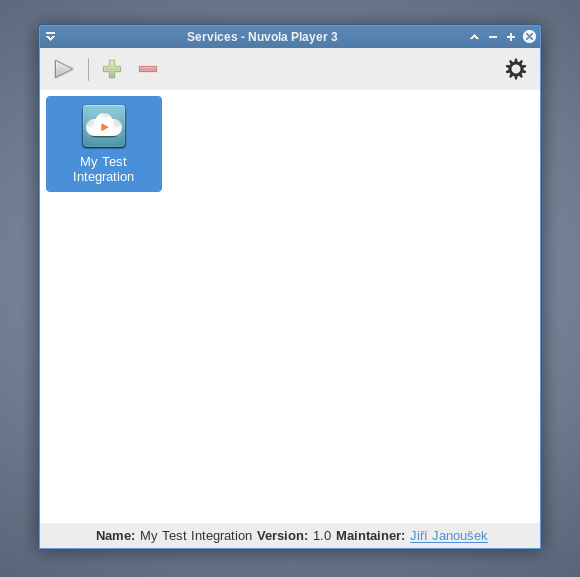
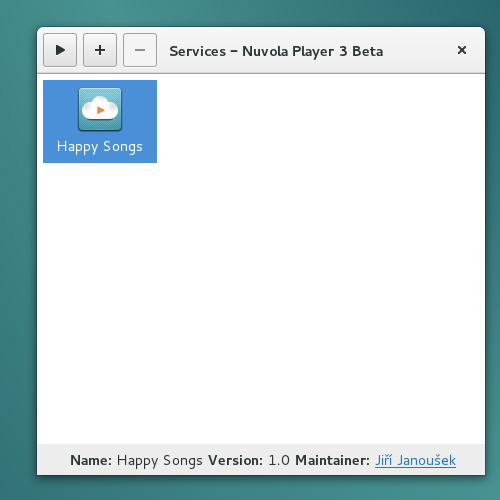
Build 37fe120865ed482d8b55540cbc47c5ff858b4a46
Build revision 37fe120865ed482d8b55540cbc47c5ff858b4a46
of tiliado/nuvolaplayer master

Changed region(s): [[0.0, 0.0, 1.0, 1.0]]

diff --git a/apps/guide.html b/apps/guide.html
@@ -111,8 +111,8 @@
   <div class="col-sm-12 col-md-10 col-lg-9">
     
 <p>This guide describes creation of <strong>a new service integration for Nuvola Player 3 from
-scratch</strong>. The goal is to write an integration script for <em>Test service</em> shipped with Nuvola Player
-and to prepare you to create your own service integration. Unlike the
+scratch</strong>. The goal is to write an integration script for <em>a fake Happy Songs service</em> shipped
+with Nuvola Player and to prepare you to create your own service integration. Unlike the
 <a href="../apps/guide.html">Service Integrations Tutorial</a>, this guide provides also insight to the Nuvola
 Player Core and explain some design decisions.</p>
 <h2 id="prepare-development-environment">Prepare development environment</h2>
@@ -127,22 +127,15 @@ Player Core and explain some design decisions.</p>
 <li>
 <p>Create a copy of the test service shipped with Nuvola Player 3.</p>
 <div class="codehilite"><pre><span class="nb">cd</span> ~/projects/nuvola-player
-cp -r /usr/share/nuvolaplayer3/web_apps/test ./test-integration
+cp -r /usr/share/nuvolaplayer3/web_apps/template ./happy-songs
 <span class="c"># or</span>
-cp -r /usr/local/share/nuvolaplayer3/web_apps/test ./test-integration
-</pre></div>
-</li>
-<li>
-<p>Rename old integration files (or remove it).</p>
-<div class="codehilite"><pre><span class="nb">cd</span> ~/projects/nuvola-player/test-integration
-mv metadata.json metadata.old.json
-mv integrate.js integrate.old.js
+cp -r /usr/local/share/nuvolaplayer3/web_apps/template ./happy-songs
 </pre></div>
 </li>
 <li>
 <p>Create new integration files and open them in your preferred plan-text editor (Gedit,
     for example).</p>
-<div class="codehilite"><pre><span class="nb">cd</span> ~/projects/nuvola-player/test-integration
+<div class="codehilite"><pre><span class="nb">cd</span> ~/projects/nuvola-player/happy-songs
 touch metadata.json integrate.js
 gedit metadata.json integrate.js &gt;/dev/null 2&gt;<span class="p">&amp;</span><span class="m">1</span> <span class="p">&amp;</span>
 </pre></div>
@@ -155,7 +148,7 @@ and available in the Nuvola Player repository, you will increase maintenance bur
 project, because somebody (<a href="http://fenryxo.cz"><em>me</em></a>) will have to create Git repository from tar.gz archive of your
 service integration anyway.</p>
 <p>See <a href="https://try.github.io/levels/1/challenges/1">Git tutorial</a>.</p>
-<div class="codehilite"><pre><span class="nb">cd</span> ~/projects/nuvola-player/test-integration
+<div class="codehilite"><pre><span class="nb">cd</span> ~/projects/nuvola-player/happy-songs
 git init .
 git add metadata.json integrate.js
 git commit -m <span class="s2">"Initial commit"</span>
@@ -168,11 +161,21 @@ debugging output to console and arguments <code>-A ~/projects/nuvola-player</cod
 load service integrations only from directory <code>~/projects/nuvola-player</code>.</p>
 <div class="codehilite"><pre>nuvolaplayer3 -D -A ~/projects/nuvola-player
 </pre></div>
+<div class="panel panel-danger"><p class="panel-heading">Make sure all Nuvola Player instances have been closed</p><div class="panel-body">
+<p>If you see following warning in terminal, there is a running instance of Nuvola Player
+that must be closed. Otherwise, the <code>-A</code> parameter is ignored.</p>
+<div class="codehilite"><pre>[Master:INFO     Nuvola] master.vala:135: Nuvola Player 3 Beta instance is already running
+and will be activated.
+[Master:WARNING  Nuvola] master.vala:137: Some command line parameters (-D, -v, -A, -L) are
+ignored because they apply only to a new instance. You might want to close all Nuvola Player
+instances and run it again with your parameters.
+</pre></div>
+</div></div>
 <p>You will see an empty list of services and an error message in terminal that tells you Nuvola Player
 failed to load your service integration because of invalid metadata file. So let's create it!</p>
 <div class="codehilite"><pre>[Master:WARNING  Nuvola] webappregistry.vala:169: Unable to load app from
-/home/fenryxo/projects/nuvola-player/test-integration: Invalid metadata file
-'/home/fenryxo/projects/nuvola-player/test-integration/metadata.json'.
+/home/fenryxo/projects/nuvola-player/happy-songs: Invalid metadata file
+'/home/fenryxo/projects/nuvola-player/happy-songs/metadata.json'.
 Expecting a JSON object, but the root node is of type '(null)'
 </pre></div>
 <p><img alt="Empty list of service integrations" src="../images/guide/empty_app_list.png"/></p>
@@ -180,8 +183,8 @@ Expecting a JSON object, but the root node is of type '(null)'
 <a href="http://en.wikipedia.org/wiki/JSON">JSON format</a> and it's called <code>metadata.json</code>.
 Let's look at the example:</p>
 <div class="codehilite"><pre><span class="p">{</span>
-    <span class="nt">"id"</span><span class="p">:</span> <span class="s2">"test_integration"</span><span class="p">,</span>
-    <span class="nt">"name"</span><span class="p">:</span> <span class="s2">"My Test Integration"</span><span class="p">,</span>
+    <span class="nt">"id"</span><span class="p">:</span> <span class="s2">"happy_songs"</span><span class="p">,</span>
+    <span class="nt">"name"</span><span class="p">:</span> <span class="s2">"Happy Songs"</span><span class="p">,</span>
     <span class="nt">"maintainer_name"</span><span class="p">:</span> <span class="s2">"Jiří Janoušek"</span><span class="p">,</span>
     <span class="nt">"maintainer_link"</span><span class="p">:</span> <span class="s2">"https://github.com/fenryxo"</span><span class="p">,</span>
     <span class="nt">"version_major"</span><span class="p">:</span> <span class="mi">1</span><span class="p">,</span>
@@ -236,15 +239,15 @@ Nuvola Player services should be in <code>"AudioVideo;Audio;"</code>.</p>
 </dd>
 <dt><code>home_url</code></dt>
 <dd>
-<p>Home page of your service. The test integration service uses <code>nuvola://home.html</code> that refers to
-file  <code>home.html</code> in the service's directory. You will use real homepage later in your own
+<p>Home page of your service. The template contains fake service home page <code>home.html</code>, which
+has a special address <code>nuvola://home.html</code>. You will use a real homepage later in your own
 service integration (e.g. <code>https://play.google.com/music/</code> for Google Play Music).</p>
 <p>This field is not required if you use custom function to handle home page request.
 See <a href="../apps/variable-home-page-url.html">Web apps with a variable home page URL</a>.</p>
 </dd>
 </dl>
 <div class="panel panel-info"><p class="panel-heading">If you use Git, commit changes</p><div class="panel-body">
-<div class="codehilite"><pre><span class="nb">cd</span> ~/projects/nuvola-player/test-integration
+<div class="codehilite"><pre><span class="nb">cd</span> ~/projects/nuvola-player/happy-songs
 git add metadata.json
 git commit -m <span class="s2">"Add initial metadata for service"</span>
 </pre></div>
@@ -284,7 +287,7 @@ of them in Nuvola Player:</p>
 </ul>
 <h2 id="app-runner-process">App Runner Process</h2>
 <p>If you launch your service, either from the list of services or with command
-<code>nuvolaplayer3 -D -A ~/projects/nuvola-player -a test_integration</code>, you will see an error
+<code>nuvolaplayer3 -D -A ~/projects/nuvola-player -a happy_songs</code>, you will see an error
 dialog saying "Invalid home page URL - The web app integration script has provided an empty home
 page URL." and the app will quit. That's because Nuvola Player makes no assumption about where the
 homepage URL is stored and expect service integration script provides this information explicitly
@@ -326,7 +329,7 @@ nothing, nobody has told Nuvola Player "Hey, look at home_url field of metadata.
 33
 34
 35</pre></div></td><td class="code"><div class="codehilite"><pre><span class="cm">/*</span>
-<span class="cm"> * Copyright 2014 Your name &lt;your e-mail&gt;</span>
+<span class="cm"> * Copyright 2015 Your name &lt;your e-mail&gt;</span>
 <span class="cm"> *</span>
 <span class="cm"> * Redistribution and use in source and binary forms, with or without</span>
 <span class="cm"> * modification, are permitted provided that the following conditions are met: </span>
@@ -393,12 +396,12 @@ instead of <a href="https://developer.mozilla.org/en-US/docs/Web/API/console.log
 </div></div>
 <h3 id="developer-tools">Developer Tools</h3>
 <p>Launch your service integration, either from the list of services or with command
-<code>nuvolaplayer3 -D -A ~/projects/nuvola-player -a test_integration</code>, and show ow important developer
+<code>nuvolaplayer3 -D -A ~/projects/nuvola-player -a happy_songs</code>, and show ow important developer
 tools:</p>
 <ul>
 <li>
 <p><strong>Developer's Sidebar</strong> shows information provided by the integration script to the Nuvola Player
-    core. To enable it, click Gear menu or GNOME Shell App Menu → Show sidebar → select "Developer"
+    core. To enable it, click Gear menu → Show sidebar → select "Developer"
     in the right sidebar.</p>
 </li>
 <li>
@@ -406,7 +409,6 @@ tools:</p>
     the web page anywhere and select "Inspect element".</p>
 </li>
 </ul>
-<p><img alt="Show sidebar - Unity" src="../images/guide/show_sidebar_unity.png"/></p>
 <p><img alt="Show sidebar - GNOME Shell" src="../images/guide/show_sidebar_gnome_shell.png"/></p>
 <p><img alt="Inspect element" src="../images/guide/inspect_element.png"/></p>
 <p><img alt="WebKit Web Inspector" src="../images/guide/webkit_web_inspector.png"/></p>
@@ -586,6 +588,9 @@ state and track details:</p>
 <span class="c1">// Extract data from the web page</span>
 <span class="nx">WebApp</span><span class="p">.</span><span class="nx">update</span> <span class="o">=</span> <span class="kd">function</span><span class="p">()</span>
 <span class="p">{</span>
+
+    <span class="c1">// Schedule the next update</span>
+    <span class="nx">setTimeout</span><span class="p">(</span><span class="k">this</span><span class="p">.</span><span class="nx">update</span><span class="p">.</span><span class="nx">bind</span><span class="p">(</span><span class="k">this</span><span class="p">),</span> <span class="mi">500</span><span class="p">);</span>
 <span class="p">}</span>
 
 <span class="p">...</span>
@@ -661,7 +666,7 @@ might be. Playback states are defined in an enumeration
 </pre></div>
 <p><img alt="Track details" src="../images/guide/track_details.png"/></p>
 <div class="panel panel-info"><p class="panel-heading">If you use Git, commit changes</p><div class="panel-body">
-<div class="codehilite"><pre><span class="nb">cd</span> ~/projects/nuvola-player/test-integration
+<div class="codehilite"><pre><span class="nb">cd</span> ~/projects/nuvola-player/happy-songs
 git add integrate.js
 git commit -m <span class="s2">"Extract metadata and playback state"</span>
 </pre></div>
@@ -790,7 +795,7 @@ $ nuvolaplayer3ctl action next-song
 </pre></div>
 </div></div>
 <div class="panel panel-info"><p class="panel-heading">If you use Git, commit changes</p><div class="panel-body">
-<div class="codehilite"><pre><span class="nb">cd</span> ~/projects/nuvola-player/test-integration
+<div class="codehilite"><pre><span class="nb">cd</span> ~/projects/nuvola-player/happy-songs
 git add integrate.js
 git commit -m <span class="s2">"Add player actions handling"</span>
 </pre></div>

diff --git a/apps/tutorial.html b/apps/tutorial.html
@@ -101,8 +101,9 @@
   <div class="col-sm-12 col-md-10 col-lg-9">
     
 <p>This tutorial briefly describes creation of <strong>a new service integration for Nuvola Player 3 from
-scratch</strong>. The goal is to write an integration script for <em>Test service</em> shipped with Nuvola Player
-and to prepare you to create your own service integration. I'm looking forward to a code review ;-)
+scratch</strong>. The goal is to write an integration script for <em>fake Happy Songs  service</em> shipped with
+Nuvola Player and to prepare you to create your own service integration.
+I'm looking forward to a code review ;-)
 There is also more detailed <a href="../apps/guide.html">Service Integrations Guide</a> that provides
 insight to the NuvolaKit core. </p>
 <h2 id="prepare-development-environment">Prepare development environment</h2>
@@ -115,24 +116,17 @@ insight to the NuvolaKit core. </p>
 </pre></div>
 </li>
 <li>
-<p>Create a copy of the test service shipped with Nuvola Player 3.</p>
-<div class="codehilite"><pre><span class="nb">cd</span> ~/projects/nuvola-player
-cp -r /usr/share/nuvolaplayer3/web_apps/test ./test-integration
-<span class="c"># or</span>
-cp -r /usr/local/share/nuvolaplayer3/web_apps/test ./test-integration
-</pre></div>
-</li>
-<li>
-<p>Rename old integration files (or remove it).</p>
-<div class="codehilite"><pre><span class="nb">cd</span> ~/projects/nuvola-player/test-integration
-mv metadata.json metadata.old.json
-mv integrate.js integrate.old.js
+<p>Create a copy of the template shipped with Nuvola Player 3.</p>
+<div class="codehilite"><pre>cd ~/projects/nuvola-player
+cp -r /usr/share/nuvolaplayer3/web_apps/template ./happy-songs
+# or
+cp -r /usr/local/share/nuvolaplayer3/web_apps/template ./happy-songs
 </pre></div>
 </li>
 <li>
 <p>Create new integration files and open them in your preferred plan-text editor (Gedit,
     for example).</p>
-<div class="codehilite"><pre><span class="nb">cd</span> ~/projects/nuvola-player/test-integration
+<div class="codehilite"><pre><span class="nb">cd</span> ~/projects/nuvola-player/happy-songs
 touch metadata.json integrate.js
 gedit metadata.json integrate.js &gt;/dev/null 2&gt;<span class="p">&amp;</span><span class="m">1</span> <span class="p">&amp;</span>
 </pre></div>
@@ -147,7 +141,7 @@ service integration anyway.</p>
 <p>If you are not familiar with the <a href="http://git-scm.com/">Git version control system</a>,
 you can check <a href="https://try.github.io/levels/1/challenges/1">Git tutorial</a>
 and <a href="http://git-scm.com/book">Pro Git Book</a>.</p>
-<div class="codehilite"><pre><span class="nb">cd</span> ~/projects/nuvola-player/test-integration
+<div class="codehilite"><pre><span class="nb">cd</span> ~/projects/nuvola-player/happy-songs
 git init .
 git add metadata.json integrate.js
 git commit -m <span class="s2">"Initial commit"</span>
@@ -159,8 +153,8 @@ git commit -m <span class="s2">"Initial commit"</span>
 <a href="http://en.wikipedia.org/wiki/JSON">JSON format</a> and it's called <code>metadata.json</code>.
 Let's look at the example:</p>
 <div class="codehilite"><pre><span class="p">{</span>
-    <span class="nt">"id"</span><span class="p">:</span> <span class="s2">"test_integration"</span><span class="p">,</span>
-    <span class="nt">"name"</span><span class="p">:</span> <span class="s2">"My Test Integration"</span><span class="p">,</span>
+    <span class="nt">"id"</span><span class="p">:</span> <span class="s2">"happy_songs"</span><span class="p">,</span>
+    <span class="nt">"name"</span><span class="p">:</span> <span class="s2">"Happy Songs"</span><span class="p">,</span>
     <span class="nt">"maintainer_name"</span><span class="p">:</span> <span class="s2">"Jiří Janoušek"</span><span class="p">,</span>
     <span class="nt">"maintainer_link"</span><span class="p">:</span> <span class="s2">"https://github.com/fenryxo"</span><span class="p">,</span>
     <span class="nt">"version_major"</span><span class="p">:</span> <span class="mi">1</span><span class="p">,</span>
@@ -215,15 +209,15 @@ Nuvola Player services should be in <code>"AudioVideo;Audio;"</code>.</p>
 </dd>
 <dt><code>home_url</code></dt>
 <dd>
-<p>Home page of your service. The test integration service uses <code>nuvola://home.html</code> that refers to
-file  <code>home.html</code> in the service's directory. You will use real homepage later in your own
+<p>Home page of your service. The template contains fake service home page <code>home.html</code>, which
+has a special address <code>nuvola://home.html</code>. You will use a real homepage later in your own
 service integration (e.g. <code>https://play.google.com/music/</code> for Google Play Music).</p>
 <p>This field is not required if you use custom function to handle home page request.
 See <a href="../apps/variable-home-page-url.html">Web apps with a variable home page URL</a>.</p>
 </dd>
 </dl>
 <div class="panel panel-info"><p class="panel-heading">If you use Git, commit changes</p><div class="panel-body">
-<div class="codehilite"><pre><span class="nb">cd</span> ~/projects/nuvola-player/test-integration
+<div class="codehilite"><pre><span class="nb">cd</span> ~/projects/nuvola-player/happy-songs
 git add metadata.json
 git commit -m <span class="s2">"Add initial metadata for service"</span>
 </pre></div>
@@ -321,7 +315,7 @@ modifications.</p>
 84
 85
 86</pre></div></td><td class="code"><div class="codehilite"><pre><span class="cm">/*</span>
-<span class="cm"> * Copyright 2014 Your name &lt;your e-mail&gt;</span>
+<span class="cm"> * Copyright 2015 Your name &lt;your e-mail&gt;</span>
 <span class="cm"> *</span>
 <span class="cm"> * Redistribution and use in source and binary forms, with or without</span>
 <span class="cm"> * modification, are permitted provided that the following conditions are met: </span>
@@ -460,28 +454,40 @@ actions and call update() method.</p>
 </dd>
 </dl>
 <div class="panel panel-info"><p class="panel-heading">If you use Git, commit changes</p><div class="panel-body">
-<div class="codehilite"><pre><span class="nb">cd</span> ~/projects/nuvola-player/test-integration
+<div class="codehilite"><pre><span class="nb">cd</span> ~/projects/nuvola-player/happy-songs
 git add integrate.js
 git commit -m <span class="s2">"Add skeleton of integration script"</span>
 </pre></div>
 </div></div>
 <h2 id="launch-nuvola-player">Launch Nuvola Player</h2>
 <p>Run Nuvola Player 3 from terminal with following command and you will see a list with only one
-service, because we told Nuvola Player to load service integrations only from directory
+service Happy Songs, because we told Nuvola Player to load service integrations only from directory
 <code>~/projects/nuvola-player</code>.</p>
-<div class="codehilite"><pre>nuvolaplayer3 -D -A ~/projects/nuvola-player
+<div class="codehilite"><pre><span class="nv">$ </span>nuvolaplayer3 -D -A ~/projects/nuvola-player
+...
+<span class="o">[</span>Master:DEBUG    Nuvola<span class="o">]</span> WebAppRegistry.vala:128: Found web app Happy Songs at /home/fenryxo/projects/nuvola-player/happy-songs, version 1.0
+...
 </pre></div>
+<div class="panel panel-danger"><p class="panel-heading">Make sure all Nuvola Player instances have been closed</p><div class="panel-body">
+<p>If you see following warning in terminal, there is a running instance of Nuvola Player
+that must be closed. Otherwise, the <code>-A</code> parameter is ignored.</p>
+<div class="codehilite"><pre>[Master:INFO     Nuvola] master.vala:135: Nuvola Player 3 Beta instance is already running
+and will be activated.
+[Master:WARNING  Nuvola] master.vala:137: Some command line parameters (-D, -v, -A, -L) are
+ignored because they apply only to a new instance. You might want to close all Nuvola Player
+instances and run it again with your parameters.
+</pre></div>
+</div></div>
 <p><img alt="A list with single service integration" src="../images/guide/app_list_one_service.png"/></p>
 <p>Launch your service integration and a new window will be opened with the test service. First of all,
-show <strong>developer's sidebar</strong> (Gear menu or GNOME Shell App Menu → Show sidebar → select "Developer" in the right 
+show <strong>developer's sidebar</strong> (Gear menu → Show sidebar → select "Developer" in the right 
 sidebar), then enable <strong>WebKit Web Inspector</strong> (right-click the web page anywhere and select
 "Inspect element").</p>
-<p><img alt="Show sidebar - Unity" src="../images/guide/show_sidebar_unity.png"/></p>
 <p><img alt="Show sidebar - GNOME Shell" src="../images/guide/show_sidebar_gnome_shell.png"/></p>
 <p><img alt="Inspect element" src="../images/guide/inspect_element.png"/></p>
 <p><img alt="WebKit Web Inspector" src="../images/guide/webkit_web_inspector.png"/></p>
-<p>You can also launch your service integration with id <code>test_integration</code> directly.</p>
-<div class="codehilite"><pre>nuvolaplayer3 -D -A ~/projects/nuvola-player -a test_integration
+<p>You can also launch your service integration with id <code>happy_songs</code> directly.</p>
+<div class="codehilite"><pre>nuvolaplayer3 -D -A ~/projects/nuvola-player -a happy_songs
 </pre></div>
 <h2 id="debugging-and-logging-messages">Debugging and logging messages</h2>
 <p>You might want to print some debugging messages to console during development. There are two types
@@ -598,7 +604,7 @@ might be. Playback states are defined in an enumeration
 </pre></div>
 <p><img alt="Track details" src="../images/guide/track_details.png"/></p>
 <div class="panel panel-info"><p class="panel-heading">If you use Git, commit changes</p><div class="panel-body">
-<div class="codehilite"><pre><span class="nb">cd</span> ~/projects/nuvola-player/test-integration
+<div class="codehilite"><pre><span class="nb">cd</span> ~/projects/nuvola-player/happy-songs
 git add integrate.js
 git commit -m <span class="s2">"Extract metadata and playback state"</span>
 </pre></div>
@@ -705,7 +711,7 @@ simulate clicking.</p>
 <p>You should click action buttons in the developer's sidebar to be sure they are working as expected.</p>
 </div></div>
 <div class="panel panel-info"><p class="panel-heading">If you use Git, commit changes</p><div class="panel-body">
-<div class="codehilite"><pre><span class="nb">cd</span> ~/projects/nuvola-player/test-integration
+<div class="codehilite"><pre><span class="nb">cd</span> ~/projects/nuvola-player/happy-songs
 git add integrate.js
 git commit -m <span class="s2">"Add player actions handling"</span>
 </pre></div>

diff --git a/apps/api_reference.html b/apps/api_reference.html
@@ -141,6 +141,7 @@
 <li><a href="#Nuvola.Core::LastPageRequest">LastPageRequest</a></li>
 <li><a href="#Nuvola.Core::NavigationRequest">NavigationRequest</a></li>
 <li><a href="#Nuvola.Core::PreferencesForm">PreferencesForm</a></li>
+<li><a href="#Nuvola.Core::ResourceRequest">ResourceRequest</a></li>
 <li><a href="#Nuvola.Core::UriChanged">UriChanged</a></li>
 </ul></li>
 <li><a href="#Nuvola.KeyValueStorage">KeyValueStorage</a>
@@ -807,6 +808,19 @@ You can use it to perform own initialization routine.</p><p><b>Parameters</b></p
 <li>Array of FormFieldArray <b>entries</b> - specification of form fields, see <a href="../apps/initialization-and-preferences-forms.html">Initialization and Preferences Forms</a> for details</li>
 </ul>
 </li>
+
+<li><small>signal</small> <b id="Nuvola.Core::ResourceRequest">ResourceRequest</b>(emitter, request)<br />
+<p>Emitted on request for loading a web resource.</p><p><b>Parameters</b></p>
+<ul>
+<li><a href="#Nuvola.Core">Core</a> <b>emitter</b> - object that emitted the signal</li>
+<li>String <b>request.url</b> - URL of the resource (can be overwritten)</li>
+<li>Boolean <b>request.approved</b> - whether the resource loading is approved</li>
+</ul>
+<div class="codehilite"><pre><span class="kd">var</span> <span class="nx">_onResourceRequest</span> <span class="o">=</span> <span class="kd">function</span><span class="p">(</span><span class="nx">emitter</span><span class="p">,</span> <span class="nx">request</span><span class="p">)</span>
+<span class="p">{</span>
+    <span class="nx">request</span><span class="p">.</span><span class="nx">url</span> <span class="o">=</span> <span class="nx">request</span><span class="p">.</span><span class="nx">url</span><span class="p">.</span><span class="nx">replace</span><span class="p">(</span><span class="s2">&quot;webcomponents.js&quot;</span><span class="p">,</span> <span class="s2">&quot;webcomponents2.js&quot;</span><span class="p">);</span>
+<span class="p">}</span>
+</pre></div></li>
 
 <li><small>signal</small> <b id="Nuvola.Core::UriChanged">UriChanged</b>(emitter, uri)<br />
 <p>Emitted after <a href="#Nuvola.Core::NavigationRequest">approved navigation</a> to a new page URL.</p><p><b>Parameters</b></p>
